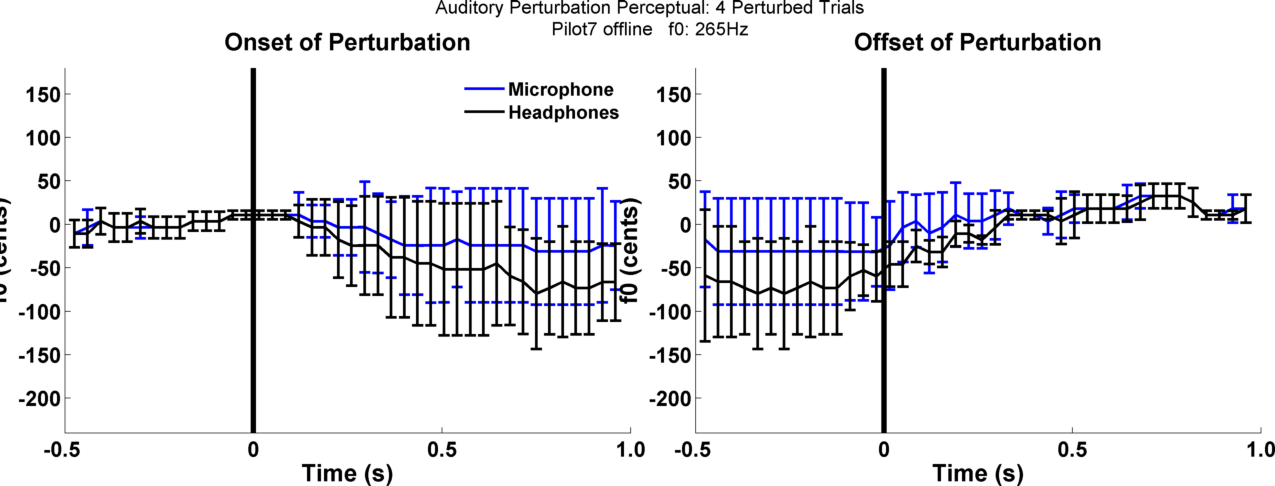
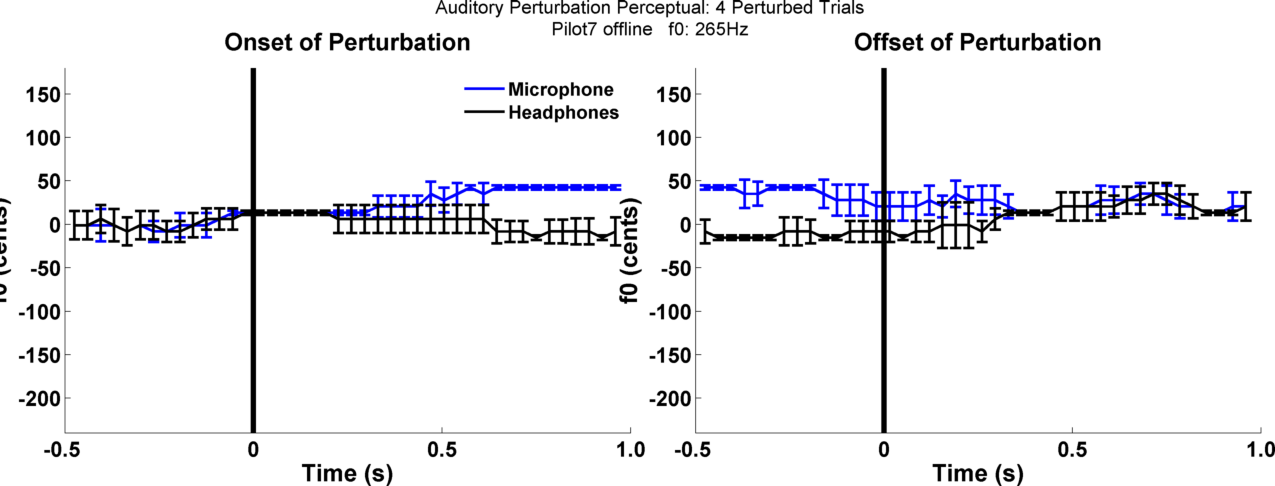
Fixed OfflineAudapterPlay
for some reason OfflineAudpaterPlay was making each new trial's mic the
previous trials headphone. That is fixed now. No reasonable explanation
why, but I made sure it would not happen

Changed region(s): [[0.0306, 0.3704, 0.4894, 0.7099], [0.5506, 0.3704, 0.9788, 0.7407]]

diff --git a/Analysis/OfflineAudapterPlay.m b/Analysis/OfflineAudapterPlay.m
@@ -95,13 +95,6 @@ load(fullfile(dirs.SavFileDir, fnames{expParam.offLineTrial}));
 Mraw  = data.signalIn; 
 fs    = data.params.sRate;
 
-%Resample at 48000Hz
-Mraw        = resample(Mraw, data.params.sr * data.params.downFact, fs);
-%Split the signal into frames
-Mraw_frames = makecell(Mraw, data.params.frameLen * data.params.downFact);
-
-% RMSTHRES = data.rms(svEn(1),1);
-
 for ii = 1:expParam.numTrial
     expParam.curTrial   = ['Trial' num2str(ii)];
     expParam.curSubCond = [expParam.subject expParam.run expParam.curTrial];
@@ -111,6 +104,11 @@ for ii = 1:expParam.numTrial
     %Set the OST and PCF functions
     Audapter('ost', expParam.ostFN, 0);
     Audapter('pcf', expParam.pcfFN, 0);
+    
+    %Resample at 48000Hz
+    Mraw_reSamp = resample(Mraw, data.params.sr * data.params.downFact, fs);
+    %Split the signal into frames
+    Mraw_frames = makecell(Mraw_reSamp, data.params.frameLen * data.params.downFact);
     
     fprintf('Trial %d\n', ii)
     AudapterIO('init', p);
@@ -150,7 +148,7 @@ for ii = 1:expParam.numTrial
 %         visSignals(data_off, fs, OST_MULT, dirs.saveResultsDir)
 %     end
 
-    if expParam.bPlay; soundsc(data_off.signalOut, fs); end
+    if expParam.bPlay; soundsc(data_off.signalIn, data_off.expParam.sRateAnal); end
     
     pause(expParam.resPause)
 end
